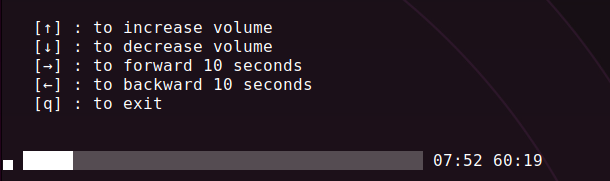
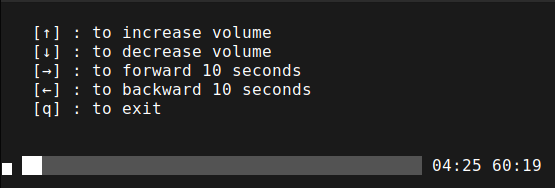
chore : update usecase img and add that how to install with go

Changed region(s): [[0.0306, 0.1105, 0.582, 0.6354], [0.0, 0.8287, 0.9802, 0.9392], [0.0, 0.0, 1.0, 0.0276]]

diff --git a/README.md b/README.md
@@ -2,13 +2,28 @@
 
 A simple VLC player for Linux written in go.
 
-## Quick Start
-
-```bash
-go run ./*.go -f <path-to-file>
-```
 
 ![](./doc/img/in-terminal.png)
+
+
+## Quick Start
+
+### Go Install
+
+```bash
+go install -v github.com/adrian-lin-1-0-0/simple-vlc-player/cmd/simple-vlc-player@latest
+```
+And then run it.
+
+```bash
+simple-vlc-player -f <path-to-file>
+```
+
+### Source Code
+
+```bash
+go run cmd/simple-vlc-player/main.go -f <path-to-file>
+```
 
 ## Install VLC On Debian/Ubuntu
 
